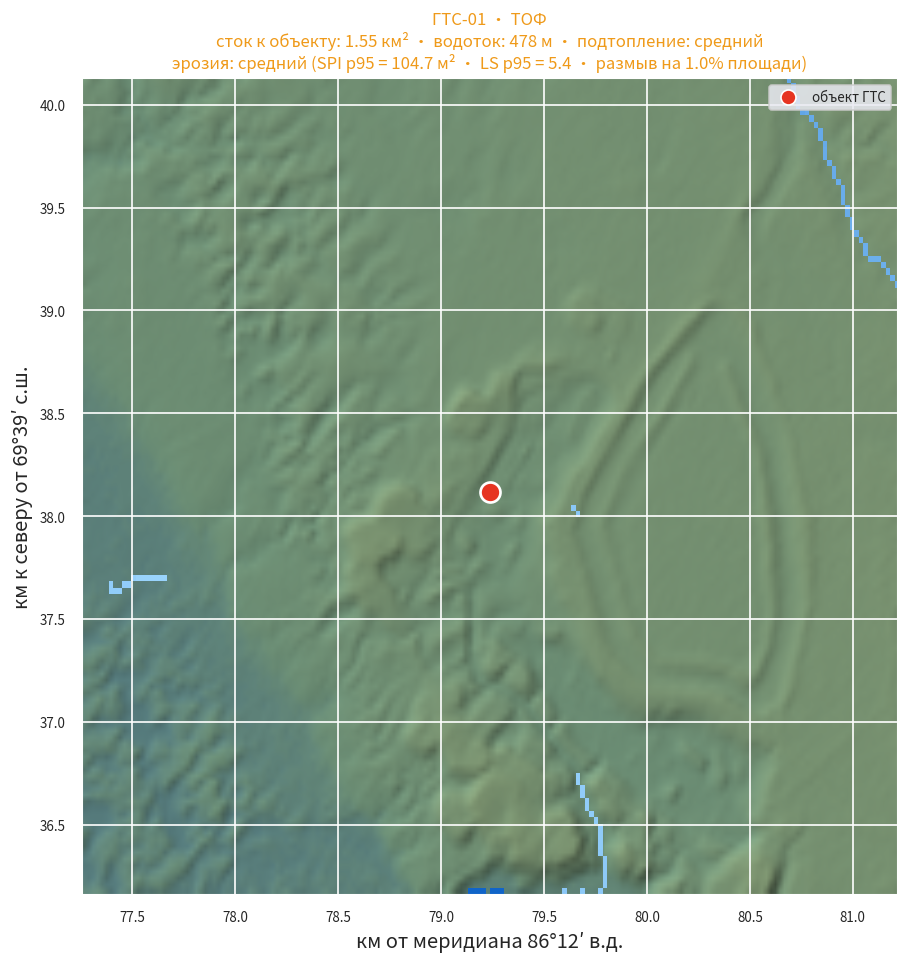
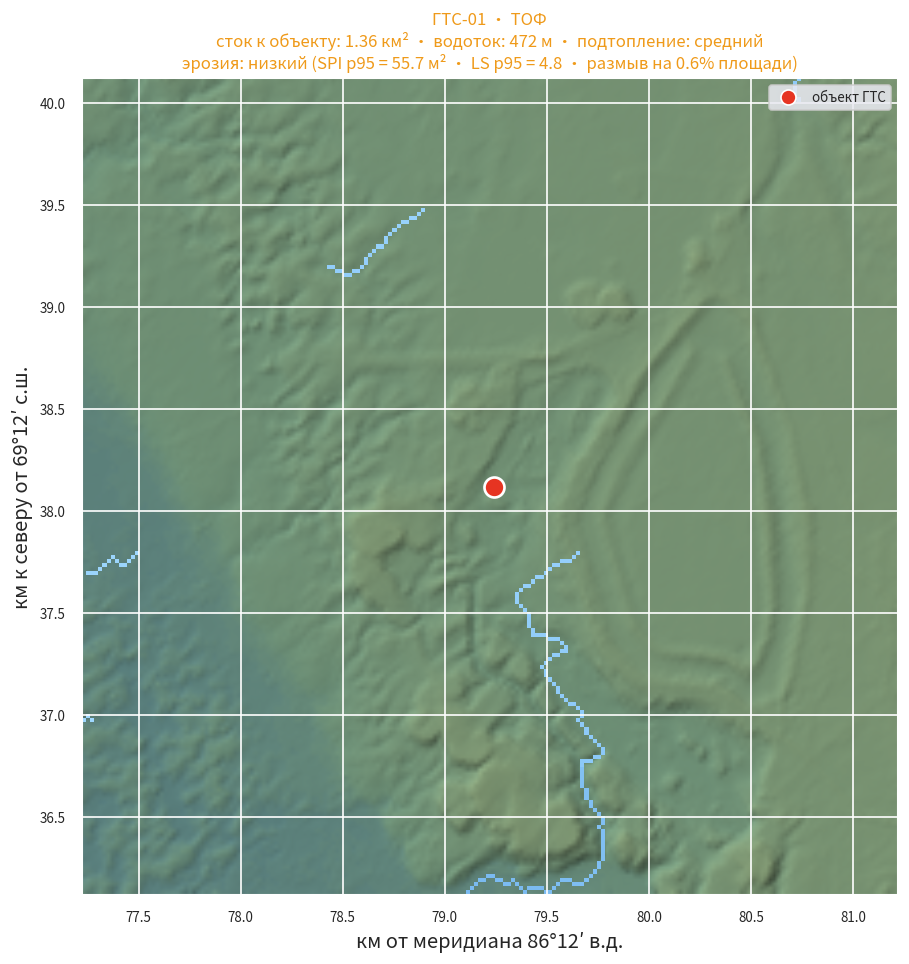
C2: ЦМР GLO-30 заменена на ArcticDEM v3.0 (10 м) — все 10 ГТС в модели стока

diff --git a/stok_data.js b/stok_data.js
@@ -1,1 +1,1 @@
-window.STOK={"src": "Copernicus DEM GLO-30 (открытые данные ESA), ячейка ~31×22 м, скрининговый уровень", "method": "Заполнение депрессий (priority-flood), направление стока D8, аккумуляция стока; водотоки от площади ~1 км²; эрозионный скрининг: LS-фактор RUSLE (Desmet–Govers), индекс мощности потока SPI (Moore et al.)", "cell_m2": 675.5, "objects": [{"id": "gts01", "name": "Хвостохранилище Талнахской обогатительной фабрики (ТОФ)", "d": "ТОФ", "elev": 51.7, "catch_direct_km2": 0.0, "catch_near_km2": 1.55, "near_off_m": 397, "dist_stream_m": 478, "slope_mean": 3.1, "slope_max": 12.6, "depr_pct": 11.9, "risk": "средний", "ls_p95": 5.4, "spi_p95": 104.7, "eros_pct": 1.0, "hotspots": [], "eros": "средний"}, {"id": "gts02", "name": "Пруд-накопитель ТОФ", "d": "ТОФ", "elev": 62.5, "catch_direct_km2": 0.0, "catch_near_km2": 1.04, "near_off_m": 477, "dist_stream_m": 390, "slope_mean": 3.5, "slope_max": 13.8, "depr_pct": 27.0, "risk": "средний", "ls_p95": 5.8, "spi_p95": 67.6, "eros_pct": 1.3, "hotspots": [{"lon": 88.357778, "lat": 69.501667, "spi": 840, "cells": 4, "off_m": 267}, {"lon": 88.36, "lat": 69.503333, "spi": 479, "cells": 4, "off_m": 458}, {"lon": 88.352778, "lat": 69.503333, "spi": 379, "cells": 3, "off_m": 342}], "eros": "средний"}, {"id": "gts03", "name": "Высоконапорный гидротранспорт ТОФ–НМЗ", "d": "ТОФ", "elev": 50.7, "catch_direct_km2": 0.01, "catch_near_km2": 1.65, "near_off_m": 498, "dist_stream_m": 225, "slope_mean": 3.5, "slope_max": 11.9, "depr_pct": 9.9, "risk": "средний", "ls_p95": 6.7, "spi_p95": 536.4, "eros_pct": 0.5, "hotspots": [], "eros": "высокий"}, {"id": "gts04", "name": "Гидротранспорт ТОФ–УПЗК рудника «Комсомольский»", "d": "ТОФ", "elev": 115.3, "catch_direct_km2": 0.0, "catch_near_km2": 0.12, "near_off_m": 419, "dist_stream_m": 961, "slope_mean": 4.4, "slope_max": 18.3, "depr_pct": 6.5, "risk": "низкий", "ls_p95": 6.9, "spi_p95": 22.3, "eros_pct": 0.8, "hotspots": [{"lon": 88.36, "lat": 69.503333, "spi": 479, "cells": 3, "off_m": 420}, {"lon": 88.356667, "lat": 69.503889, "spi": 107, "cells": 3, "off_m": 483}], "eros": "низкий"}, {"id": "gts05", "name": "Хвостохранилище Надеждинского металлургического завода (НМЗ)", "d": "НМЗ", "elev": 263.0, "catch_direct_km2": 0.0, "catch_near_km2": 1.72, "near_off_m": 476, "dist_stream_m": 83, "slope_mean": 1.9, "slope_max": 7.2, "depr_pct": 19.2, "risk": "высокий", "ls_p95": 4.4, "spi_p95": 150.2, "eros_pct": 0.0, "hotspots": [{"lon": 87.878333, "lat": 69.283889, "spi": 131, "cells": 5, "off_m": 330}], "eros": "средний"}, {"id": "gts06", "name": "Гипсохранилище НМЗ (ГПХ)", "d": "НМЗ", "elev": 256.8, "catch_direct_km2": 0.0, "catch_near_km2": 1.72, "near_off_m": 496, "dist_stream_m": 118, "slope_mean": 1.3, "slope_max": 7.2, "depr_pct": 24.2, "risk": "высокий", "ls_p95": 3.7, "spi_p95": 82.3, "eros_pct": 0.0, "hotspots": [], "eros": "средний"}, {"id": "gts07", "name": "Хвостохранилище «Лебяжье» НОФ (ООО «Медвежий ручей»)", "d": "НОФ", "elev": 71.5, "catch_direct_km2": 0.01, "catch_near_km2": 0.07, "near_off_m": 468, "dist_stream_m": 1051, "slope_mean": 0.1, "slope_max": 2.7, "depr_pct": 95.1, "risk": "средний", "ls_p95": 0.4, "spi_p95": 1.4, "eros_pct": 0.0, "hotspots": [], "eros": "низкий"}, {"id": "gts08", "name": "Хвостохранилище № 1 НОФ", "d": "НОФ", "elev": 119.1, "catch_direct_km2": 0.02, "catch_near_km2": 0.23, "near_off_m": 221, "dist_stream_m": 1157, "slope_mean": 0.0, "slope_max": 0.7, "depr_pct": 91.9, "risk": "средний", "ls_p95": 0.6, "spi_p95": 0.5, "eros_pct": 0.0, "hotspots": [], "eros": "низкий"}, {"id": "gts09", "name": "Никелевые отстойники НОФ", "d": "НОФ", "elev": 104.0, "catch_direct_km2": 0.0, "catch_near_km2": 1.01, "near_off_m": 156, "dist_stream_m": 549, "slope_mean": 3.8, "slope_max": 18.1, "depr_pct": 27.0, "risk": "средний", "ls_p95": 13.6, "spi_p95": 466.7, "eros_pct": 5.2, "hotspots": [{"lon": 88.190556, "lat": 69.311389, "spi": 4182, "cells": 42, "off_m": 460}, {"lon": 88.2, "lat": 69.311389, "spi": 2450, "cells": 4, "off_m": 486}, {"lon": 88.197778, "lat": 69.313611, "spi": 2448, "cells": 6, "off_m": 227}], "eros": "высокий"}, {"id": "gts10", "name": "ГТС системы трёх озёр (плотина на ручье Артинатка, г. Дудинка)", "d": "Дудинка", "elev": 78.7, "catch_direct_km2": 0.0, "catch_near_km2": 5.48, "near_off_m": 499, "dist_stream_m": 482, "slope_mean": 2.3, "slope_max": 11.6, "depr_pct": 44.7, "risk": "высокий", "ls_p95": 3.8, "spi_p95": 52.8, "eros_pct": 0.0, "hotspots": [], "eros": "низкий"}]};
+window.STOK={"src": "ArcticDEM v3.0 mosaic (PGC, данные Maxar/DigitalGlobe), исходная ячейка 10 м, модельная сетка 20 м, скрининговый уровень", "method": "Заполнение депрессий (priority-flood), направление стока D8, аккумуляция стока; водотоки от площади ~1 км²; эрозионный скрининг: LS-фактор RUSLE (Desmet–Govers), индекс мощности потока SPI (Moore et al.)", "cell_m2": 400.0, "objects": [{"id": "gts01", "name": "Хвостохранилище Талнахской обогатительной фабрики (ТОФ)", "d": "ТОФ", "elev": 37.0, "catch_direct_km2": 0.0, "catch_near_km2": 1.36, "near_off_m": 500, "dist_stream_m": 472, "slope_mean": 3.5, "slope_max": 14.7, "depr_pct": 10.3, "risk": "средний", "ls_p95": 4.8, "spi_p95": 55.7, "eros_pct": 0.6, "hotspots": [], "eros": "низкий"}, {"id": "gts02", "name": "Пруд-накопитель ТОФ", "d": "ТОФ", "elev": 48.4, "catch_direct_km2": 0.0, "catch_near_km2": 0.76, "near_off_m": 495, "dist_stream_m": 752, "slope_mean": 4.5, "slope_max": 32.4, "depr_pct": 23.7, "risk": "средний", "ls_p95": 6.8, "spi_p95": 40.6, "eros_pct": 1.7, "hotspots": [{"lon": 88.355135, "lat": 69.50227, "spi": 2095, "cells": 6, "off_m": 251}, {"lon": 88.358194, "lat": 69.50227, "spi": 478, "cells": 10, "off_m": 326}, {"lon": 88.352587, "lat": 69.503704, "spi": 231, "cells": 8, "off_m": 381}], "eros": "низкий"}, {"id": "gts03", "name": "Высоконапорный гидротранспорт ТОФ–НМЗ", "d": "ТОФ", "elev": 36.3, "catch_direct_km2": 0.0, "catch_near_km2": 0.96, "near_off_m": 482, "dist_stream_m": 549, "slope_mean": 4.1, "slope_max": 14.7, "depr_pct": 13.4, "risk": "средний", "ls_p95": 7.6, "spi_p95": 153.3, "eros_pct": 0.8, "hotspots": [{"lon": 88.355135, "lat": 69.50227, "spi": 2095, "cells": 3, "off_m": 495}, {"lon": 88.342902, "lat": 69.495636, "spi": 127, "cells": 3, "off_m": 405}], "eros": "средний"}, {"id": "gts04", "name": "Гидротранспорт ТОФ–УПЗК рудника «Комсомольский»", "d": "ТОФ", "elev": 122.0, "catch_direct_km2": 0.0, "catch_near_km2": 0.09, "near_off_m": 495, "dist_stream_m": 921, "slope_mean": 10.9, "slope_max": 41.6, "depr_pct": 9.0, "risk": "низкий", "ls_p95": 41.5, "spi_p95": 81.7, "eros_pct": 6.6, "hotspots": [{"lon": 88.373995, "lat": 69.508365, "spi": 630, "cells": 4, "off_m": 382}, {"lon": 88.373486, "lat": 69.506035, "spi": 387, "cells": 3, "off_m": 260}, {"lon": 88.371957, "lat": 69.503883, "spi": 339, "cells": 3, "off_m": 312}], "eros": "средний"}, {"id": "gts05", "name": "Хвостохранилище Надеждинского металлургического завода (НМЗ)", "d": "НМЗ", "elev": 248.7, "catch_direct_km2": 0.01, "catch_near_km2": 4.18, "near_off_m": 494, "dist_stream_m": 82, "slope_mean": 1.8, "slope_max": 7.9, "depr_pct": 18.1, "risk": "высокий", "ls_p95": 5.9, "spi_p95": 188.5, "eros_pct": 0.3, "hotspots": [{"lon": 87.880068, "lat": 69.284439, "spi": 145, "cells": 4, "off_m": 361}], "eros": "средний"}, {"id": "gts06", "name": "Гипсохранилище НМЗ (ГПХ)", "d": "НМЗ", "elev": 243.7, "catch_direct_km2": 0.0, "catch_near_km2": 4.2, "near_off_m": 500, "dist_stream_m": 82, "slope_mean": 1.5, "slope_max": 6.6, "depr_pct": 21.0, "risk": "высокий", "ls_p95": 5.3, "spi_p95": 88.9, "eros_pct": 0.0, "hotspots": [], "eros": "средний"}, {"id": "gts07", "name": "Хвостохранилище «Лебяжье» НОФ (ООО «Медвежий ручей»)", "d": "НОФ", "elev": 60.3, "catch_direct_km2": 0.0, "catch_near_km2": 0.18, "near_off_m": 322, "dist_stream_m": 1644, "slope_mean": 0.4, "slope_max": 4.6, "depr_pct": 25.5, "risk": "средний", "ls_p95": 0.8, "spi_p95": 6.9, "eros_pct": 0.0, "hotspots": [], "eros": "низкий"}, {"id": "gts08", "name": "Хвостохранилище № 1 НОФ", "d": "НОФ", "elev": 104.4, "catch_direct_km2": 0.02, "catch_near_km2": 1.3, "near_off_m": 482, "dist_stream_m": 377, "slope_mean": 0.0, "slope_max": 0.1, "depr_pct": 99.9, "risk": "средний", "ls_p95": 0.5, "spi_p95": 0.1, "eros_pct": 0.0, "hotspots": [], "eros": "низкий"}, {"id": "gts09", "name": "Никелевые отстойники НОФ", "d": "НОФ", "elev": 92.7, "catch_direct_km2": 0.01, "catch_near_km2": 8.67, "near_off_m": 484, "dist_stream_m": 128, "slope_mean": 4.6, "slope_max": 18.7, "depr_pct": 26.7, "risk": "высокий", "ls_p95": 17.2, "spi_p95": 443.8, "eros_pct": 5.9, "hotspots": [{"lon": 88.199668, "lat": 69.318145, "spi": 62158, "cells": 5, "off_m": 377}, {"lon": 88.202217, "lat": 69.315455, "spi": 54643, "cells": 4, "off_m": 301}, {"lon": 88.19661, "lat": 69.317248, "spi": 47030, "cells": 3, "off_m": 234}], "eros": "высокий"}, {"id": "gts10", "name": "ГТС системы трёх озёр (плотина на ручье Артинатка, г. Дудинка)", "d": "Дудинка", "elev": 65.6, "catch_direct_km2": 0.0, "catch_near_km2": 1.43, "near_off_m": 494, "dist_stream_m": 388, "slope_mean": 2.5, "slope_max": 12.4, "depr_pct": 42.5, "risk": "средний", "ls_p95": 4.2, "spi_p95": 42.9, "eros_pct": 0.1, "hotspots": [{"lon": 86.286144, "lat": 69.41962, "spi": 129, "cells": 3, "off_m": 497}], "eros": "низкий"}]};
